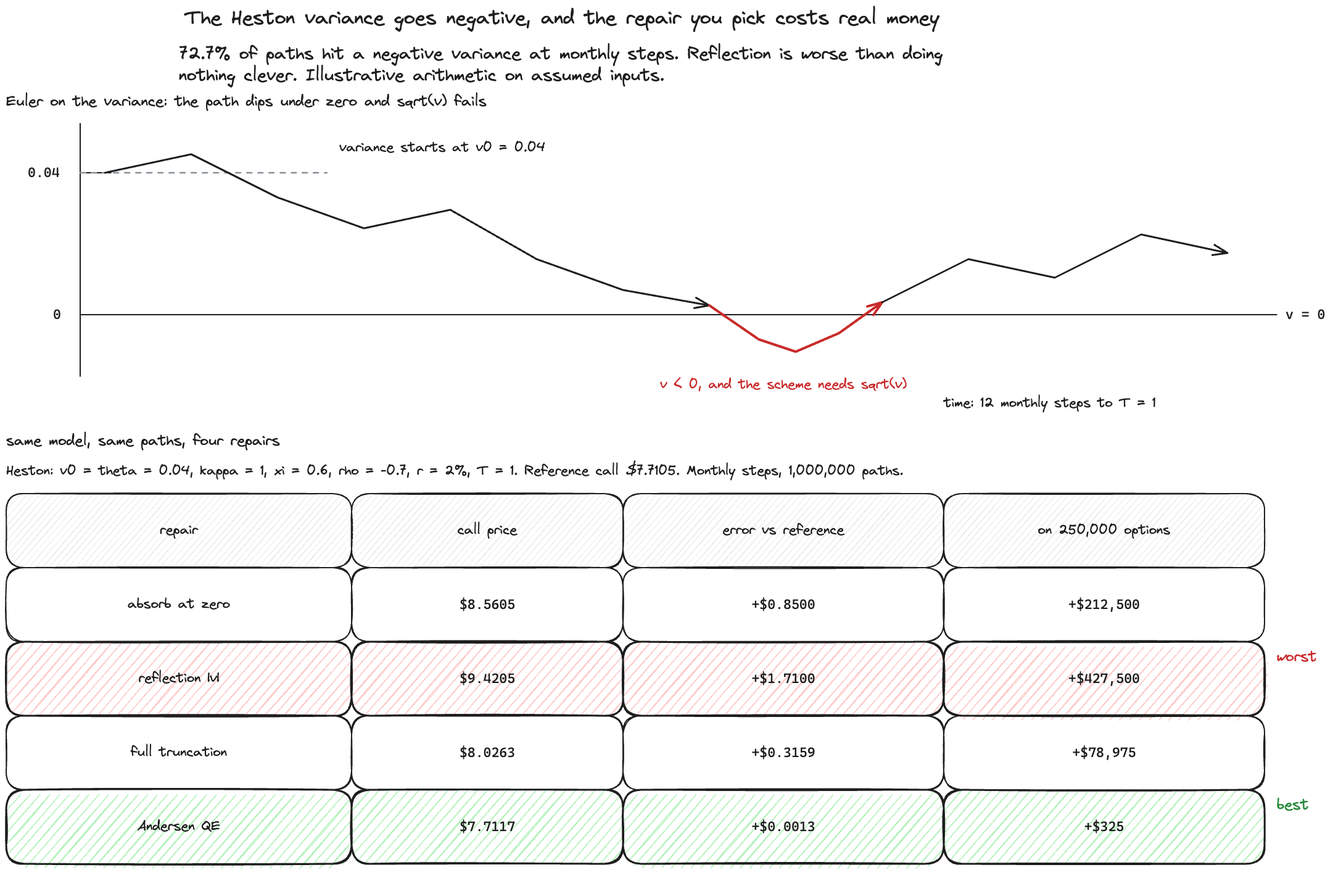
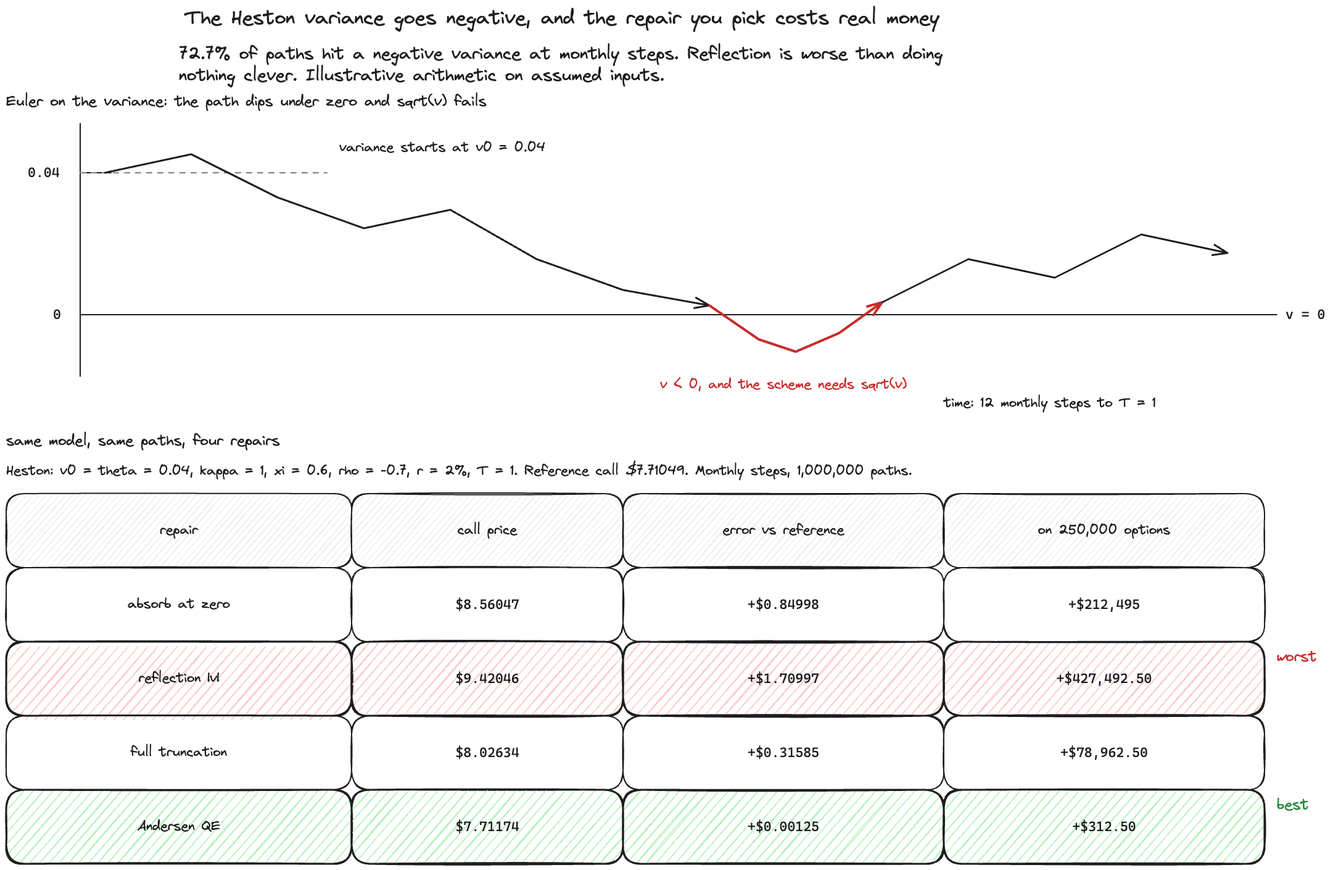
Numerical SDEs: make the Heston table reproduce, tighten prose
The Heston repair table printed prices and errors at 4 dp, at which two of
the four rows are not true identities: a reader subtracting the printed
price from the printed reference gets 8.0263 - 7.7105 = 0.3158 against a
printed 0.3159, and the Andersen QE row has the same defect. Carried both
columns to 5 dp so every row is exact, and re-rendered figure 4 to match.

Also split the 12 single-line $$...$$ blocks onto their own fence lines,
and trimmed prose from 4,188 to 4,081 words.

diff --git a/content/blog/trading/math-for-quants/numerical-sdes-euler-milstein-math-for-quants.md b/content/blog/trading/math-for-quants/numerical-sdes-euler-milstein-math-for-quants.md
@@ -22,9 +22,11 @@ readTime: 19
 
 Every quant can write down
 
-$$dS_t = \mu S_t\,dt + \sigma S_t\,dW_t$$
+$$
+dS_t = \mu S_t\,dt + \sigma S_t\,dW_t
+$$
 
-and most can derive its solution. Far fewer can say what happens when you hand that equation to a computer, which cannot take infinitesimal steps and must therefore approximate. The approximation introduces an error that is invisible in the output, does not shrink when you add paths, and has a different size depending on what question you are asking of the simulation.
+and most can derive its solution. Far fewer can say what happens when you hand it to a computer, which cannot take infinitesimal steps and must approximate. That approximation introduces an error that is invisible in the output, does not shrink when you add paths, and changes size depending on what you are asking the simulation for.
 
 That last clause is the whole post. The same scheme, run on the same model, is accurate for one question and inaccurate for another, and the vocabulary that separates the two cases is *strong* versus *weak* convergence.
 
@@ -34,15 +36,19 @@ That last clause is the whole post. The same scheme, run on the same model, is a
 
 An [SDE](/blog/trading/math-for-quants/sdes-gbm-ou-cir-math-for-quants) is shorthand for an integral equation. Writing ${dX_t = a(X_t)\,dt + b(X_t)\,dW_t}$ is a compact way of saying
 
-$$X_T = X_0 + \int_0^T a(X_t)\,dt + \int_0^T b(X_t)\,dW_t,$$
+$$
+X_T = X_0 + \int_0^T a(X_t)\,dt + \int_0^T b(X_t)\,dW_t,
+$$
 
 where the second integral is an [Ito integral](/blog/trading/math-for-quants/ito-integral-itos-lemma-math-for-quants) against Brownian motion. The function $a$ is the **drift**, the average direction of travel per unit time. The function $b$ is the **diffusion coefficient**, the size of the random kick per unit of square-root time.
 
 A computer cannot evaluate those integrals. It can only chop ${[0,T]}$ into $n$ pieces of length ${\Delta t = T/n}$ and freeze the coefficients inside each piece. Do that and you get the **Euler-Maruyama scheme**:
 
-$$X_{k+1} = X_k + a(X_k)\,\Delta t + b(X_k)\,\Delta W_k, \qquad \Delta W_k \sim N(0, \Delta t).$$
+$$
+X_{k+1} = X_k + a(X_k)\,\Delta t + b(X_k)\,\Delta W_k, \qquad \Delta W_k \sim N(0, \Delta t).
+$$
 
-It is the obvious thing: evaluate the coefficients at the left endpoint, hold them constant, and step. The one detail that is not obvious to someone arriving from ordinary differential equations is that the random increment scales like $\sqrt{\Delta t}$, not $\Delta t$. Halve the step and the drift contribution halves, while the noise contribution only falls by a factor of 1.414. That mismatch is why [Brownian motion](/blog/trading/math-for-quants/brownian-motion-random-walk-math-for-quants) has infinite variation, and it is the root of everything that follows: the noise term dominates at small steps, so the error is governed by how well you approximate the *stochastic* integral, not the ordinary one.
+It is the obvious thing: evaluate the coefficients at the left endpoint, hold them constant, and step. The detail that surprises people arriving from ordinary differential equations is that the random increment scales like $\sqrt{\Delta t}$, not $\Delta t$. Halve the step and the drift contribution halves, while the noise only falls by a factor of 1.414. That mismatch is why [Brownian motion](/blog/trading/math-for-quants/brownian-motion-random-walk-math-for-quants) has infinite variation, and it is the root of everything below: the noise dominates at small steps, so the error is governed by how well you approximate the *stochastic* integral.
 
 ### Why there are two different errors
 
@@ -50,13 +56,17 @@ Suppose you simulate a path and compare it to the truth. There are two honest wa
 
 The first compares the paths themselves. Drive the scheme and the exact solution with the **same** Brownian increments, and measure how far apart they finish:
 
-$$e_{\text{strong}}(\Delta t) = \mathbb{E}\big|X_T^{\Delta t} - X_T\big|.$$
+$$
+e_{\text{strong}}(\Delta t) = \mathbb{E}\big|X_T^{\Delta t} - X_T\big|.
+$$
 
 The scheme has **strong order** $\gamma$ if this is bounded by ${C\,\Delta t^{\gamma}}$ for small $\Delta t$.
 
 The second never compares paths at all. It compares the *answers* the two produce:
 
-$$e_{\text{weak}}(\Delta t) = \big|\mathbb{E}[f(X_T^{\Delta t})] - \mathbb{E}[f(X_T)]\big|$$
+$$
+e_{\text{weak}}(\Delta t) = \big|\mathbb{E}[f(X_T^{\Delta t})] - \mathbb{E}[f(X_T)]\big|
+$$
 
 for a payoff $f$. The scheme has **weak order** $\beta$ if this is bounded by ${C\,\Delta t^{\beta}}$.
 
@@ -68,41 +78,45 @@ The practical translation is short. **If the number you want is an expectation o
 
 The fix for Euler's weak pathwise accuracy is not a cleverer idea, it is simply the next term of the expansion. Inside one step,
 
-$$\int_{t_k}^{t_{k+1}} b(X_s)\,dW_s \approx b(X_k)\,\Delta W_k + b(X_k)b'(X_k)\int_{t_k}^{t_{k+1}}\!\!\int_{t_k}^{s} dW_u\,dW_s,$$
+$$
+\int_{t_k}^{t_{k+1}} b(X_s)\,dW_s \approx b(X_k)\,\Delta W_k + b(X_k)b'(X_k)\int_{t_k}^{t_{k+1}}\!\!\int_{t_k}^{s} dW_u\,dW_s,
+$$
 
 because ${b(X_s) \approx b(X_k) + b'(X_k)(X_s - X_k)}$ and ${X_s - X_k \approx b(X_k)(W_s - W_k)}$ to leading order. Euler keeps the first term and throws the second away. But that double integral has a closed form: applying [Ito's lemma](/blog/trading/math-for-quants/ito-integral-itos-lemma-math-for-quants) to $W_t^2$ gives ${d(W^2) = 2W\,dW + dt}$, and rearranging over one step yields
 
-$$\int_{t_k}^{t_{k+1}}\!\!\int_{t_k}^{s} dW_u\,dW_s = \tfrac{1}{2}\Big[(\Delta W_k)^2 - \Delta t\Big].$$
+$$
+\int_{t_k}^{t_{k+1}}\!\!\int_{t_k}^{s} dW_u\,dW_s = \tfrac{1}{2}\Big[(\Delta W_k)^2 - \Delta t\Big].
+$$
 
 So the missing piece is computable from the increment you already drew. The **Milstein scheme** is Euler plus that term:
 
-$$X_{k+1} = X_k + a(X_k)\,\Delta t + b(X_k)\,\Delta W_k + \tfrac{1}{2}\,b(X_k)\,b'(X_k)\Big[(\Delta W_k)^2 - \Delta t\Big].$$
+$$
+X_{k+1} = X_k + a(X_k)\,\Delta t + b(X_k)\,\Delta W_k + \tfrac{1}{2}\,b(X_k)\,b'(X_k)\Big[(\Delta W_k)^2 - \Delta t\Big].
+$$
 
-It costs one extra multiplication per step, needs no extra random numbers, and lifts the scheme to **strong order 1.0**. Note the bracket has mean zero, since ${\mathbb{E}[(\Delta W)^2] = \Delta t}$. That is exactly why Milstein does nothing for weak convergence: the term it adds is invisible to an expectation. Milstein is order 1.0 strong and order 1.0 weak, the same weak grade Euler already had.
-
-Note also that if $b$ does not depend on the state, $b' = 0$ and Milstein *is* Euler. The correction only exists when volatility is state-dependent.
+It costs one extra multiplication per step, needs no extra random numbers, and lifts the scheme to **strong order 1.0**. The bracket has mean zero, since ${\mathbb{E}[(\Delta W)^2] = \Delta t}$, which is exactly why Milstein does nothing for weak convergence: the term it adds is invisible to an expectation. Milstein is order 1.0 strong and 1.0 weak, the same weak grade Euler already had. And if $b$ does not depend on the state, $b' = 0$ and Milstein *is* Euler: the correction only exists when volatility is state-dependent.
 
 ![A table comparing convergence, with rows for 12 monthly, 52 weekly and 252 daily steps, columns for Euler strong RMS error, Milstein strong RMS error and Euler weak bias on a one hundred dollar call, and a bottom row giving observed orders of 0.50, 1.00 and 0.95 measured from weekly to daily](/imgs/blogs/numerical-sdes-euler-milstein-math-for-quants-2.webp)
 
 #### Worked example 1: what pathwise accuracy is worth on a hedging book
 
-A risk desk runs a delta-hedging simulation on a **\$50m** equity position, 500,000 shares of a \$100 stock at 30% volatility, to see how a one-year hedge programme behaves. The simulation is not pricing anything. It is asking what *this* path would have done to *this* hedge, so it is squarely a strong-convergence problem.
+A risk desk runs a delta-hedging simulation on a **\$50m** equity position, 500,000 shares of a \$100 stock at 30% volatility, over one year. It is not pricing anything. It is asking what *this* path would have done to *this* hedge, so it is squarely a strong-convergence problem.
 
-Simulate geometric Brownian motion by Euler and by Milstein, both driven by the same Brownian increments as the exact solution, and measure the root-mean-square distance between the scheme's terminal price and the true one:
+Simulate by Euler and by Milstein, both driven by the same Brownian increments as the exact solution, and measure the root-mean-square distance between the scheme's terminal price and the true one:
 
 1. **Monthly steps.** Euler lands **\$1.994** away from the true terminal price per share, Milstein **\$0.1512**. On 500,000 shares that is ${\$1.994 \times 500{,}000 = \$997{,}000}$ of pathwise dispersion against ${\$0.1512 \times 500{,}000 = \$75{,}600}$. The scheme is injecting roughly \$921,400 of pure simulation noise into a hedging study.
 2. **Daily steps.** Euler falls to **\$0.437** and Milstein to **\$0.00729**, so \$218,500 against \$3,645.
 3. **The orders.** Between weekly and daily, Euler's error falls by a factor of ${0.960/0.437 = 2.197}$ while the step falls by ${252/52 = 4.846}$. Since ${\ln(2.197)/\ln(4.846) = 0.499}$, that is order **0.50**. Milstein falls by ${0.0353/0.00729 = 4.842}$ over the same refinement, an order of **1.00**.
 
-The lesson: Euler needs four times the steps to halve its pathwise error, and Milstein needs only two. On a state-dependent-volatility model where you care about paths, that ratio compounds into an hour of compute versus a day of it.
+The lesson: Euler needs four times the steps to halve its pathwise error, Milstein only two. Where you care about paths, that ratio is an hour of compute against a day of it.
 
 ## Discretisation bias is not Monte Carlo error
 
-This is the distinction people get wrong, and it is worth being pedantic about. A Monte Carlo price carries **two** errors that behave completely differently.
+This is the distinction people get wrong. A Monte Carlo price carries **two** errors that behave completely differently.
 
-**Monte Carlo error** is sampling noise. You drew ${M}$ paths instead of infinitely many, so your estimate wobbles around the true value of the expectation with standard deviation ${\sigma_f/\sqrt{M}}$. It is random, it is unbiased, it shrinks as you add paths, and you can put a confidence interval on it.
+**Monte Carlo error** is sampling noise. You drew ${M}$ paths instead of infinitely many, so your estimate wobbles around the expectation with standard deviation ${\sigma_f/\sqrt{M}}$. It is random, unbiased, shrinks as you add paths, and carries a confidence interval.
 
-**Discretisation bias** is the gap between the true value of the expectation *you are actually computing* and the one you want. You are not sampling the model. You are sampling a slightly different model, the one your scheme defines. It is deterministic, it is signed, and **it does not move when you add paths**. Adding paths makes you more and more confident about the wrong number.
+**Discretisation bias** is the gap between the expectation *you are actually computing* and the one you want. You are not sampling the model; you are sampling a slightly different model, the one your scheme defines. It is deterministic, it is signed, and **it does not move when you add paths**. More paths make you more confident about the wrong number.
 
 ![A log-log chart with paths simulated on the x-axis and error per option on the y-axis. A descending line labelled Monte Carlo standard error crosses three horizontal bias lines for monthly, weekly and daily steps, with crossing points marked at 1.8 million, 28 million and 570 million paths](/imgs/blogs/numerical-sdes-euler-milstein-math-for-quants-3.webp)
 
@@ -117,9 +131,9 @@ Simulate with Euler and compare against the exact solution driven by the same Br
 3. **Daily steps (252).** It falls again to **\$0.00093**, so \$232.50.
 4. **The observed order.** From weekly to daily, ${0.00418/0.00093 = 4.495}$ against a step ratio of 4.846, so ${\ln(4.495)/\ln(4.846) = 0.95}$. Theory says weak order 1.0; the shortfall is Monte Carlo noise on a bias this small.
 
-Now the part that matters. The payoff's standard deviation here is **\$22.199**, so the Monte Carlo standard error on ${M}$ paths is \$22.199 divided by $\sqrt{M}$. Setting that equal to the monthly bias gives ${M = (22.199/0.01675)^2 = 1{,}756{,}000}$ paths. **Past about 1.8 million paths, a monthly-stepped Euler simulation stops getting better.** For the weekly bias the crossover is 28 million paths, and for daily it is 570 million.
+Now the part that matters. The payoff's standard deviation here is **\$22.199**, so the Monte Carlo standard error on ${M}$ paths is \$22.199 divided by $\sqrt{M}$. Setting that equal to the monthly bias gives ${M = (22.199/0.01675)^2 = 1{,}756{,}000}$ paths. **Past about 1.8 million paths, a monthly-stepped Euler simulation stops getting better.** The weekly crossover is 28 million paths, the daily one 570 million.
 
-A desk that responds to a noisy price by throwing ten times the paths at it, without touching the step size, is buying a tighter confidence interval around a number that is still \$4,187.50 wrong.
+A desk that answers a noisy price by throwing ten times the paths at it, without touching the step, buys a tighter confidence interval around a number still \$4,187.50 wrong.
 
 #### Worked example 3: one compute budget, three ways to spend it
 
@@ -131,7 +145,7 @@ Because the two errors trade off, the step count and the path count have to be c
 | 52 | 38m | \$0.00418 | \$0.00358 | \$0.00550 | \$1,375 |
 | 252 | 7.9m | \$0.00093 | \$0.00788 | \$0.00793 | \$1,982.50 |
 
-The monthly run is **all bias**: its confidence interval is ten times tighter than its error. The daily run is **all noise**: it nails the model and then cannot tell you where the answer is. The weekly split, where the two errors are roughly equal, is three times better than the monthly one for exactly the same compute. That equality is the general rule, and Duffie and Glynn (1995) make it precise: at the optimum the squared bias and the variance are of the same order, which for a weak-order-1 scheme puts the step count at roughly the cube root of the budget.
+The monthly run is **all bias**: its confidence interval is ten times tighter than its error. The daily run is **all noise**: it nails the model, then cannot tell you where the answer is. The weekly split, where the two errors are roughly equal, is three times better than monthly for the same compute. That equality is the rule, and Duffie and Glynn (1995) make it precise: at the optimum the squared bias and the variance are the same order, which for a weak-order-1 scheme puts the step count near the cube root of the budget.
 
 ## Never Euler a geometric Brownian motion
 
@@ -139,15 +153,19 @@ All of the above assumes you have to discretise. Sometimes you do not.
 
 Geometric Brownian motion has an exact solution. Applying Ito's lemma to $\ln S$ gives ${d\ln S = (\mu - \sigma^2/2)dt + \sigma\,dW}$, whose right-hand side has no state dependence at all, so it integrates exactly over any interval:
 
-$$S_{k+1} = S_k \exp\!\Big[\big(\mu - \tfrac{1}{2}\sigma^2\big)\Delta t + \sigma\,\Delta W_k\Big].$$
+$$
+S_{k+1} = S_k \exp\!\Big[\big(\mu - \tfrac{1}{2}\sigma^2\big)\Delta t + \sigma\,\Delta W_k\Big].
+$$
 
 This is not a scheme. It is the solution, sampled on a grid. It has **zero discretisation error at any step size**, strong and weak. If all you need is the terminal price, take one step of size ${T}$ and stop.
 
-So the entire table above, every dollar of bias in worked example 2, was self-inflicted. It exists only because someone reached for Euler on a model that did not need it. The same is true of the [Ornstein-Uhlenbeck process](/blog/trading/math-for-quants/sdes-gbm-ou-cir-math-for-quants), which is Gaussian and can be stepped exactly, and of the CIR process, whose transition law is a scaled non-central chi-square.
+So every dollar of bias in worked example 2 was self-inflicted, and exists only because someone reached for Euler on a model that did not need it. The same holds for the [Ornstein-Uhlenbeck process](/blog/trading/math-for-quants/sdes-gbm-ou-cir-math-for-quants), which is Gaussian and steps exactly, and for CIR, whose transition law is a scaled non-central chi-square.
 
-There is a second reason to care, beyond accuracy. Euler on GBM is not even **martingale-consistent**. Since ${\mathbb{E}[\Delta W] = 0}$, the Euler scheme's expected terminal price telescopes to a closed form:
+There is a second reason to care. Euler on GBM is not even **martingale-consistent**. Since ${\mathbb{E}[\Delta W] = 0}$, its expected terminal price telescopes to a closed form:
 
-$$\mathbb{E}\big[S_T^{\text{Euler}}\big] = S_0\,(1 + \mu\,\Delta t)^n \quad\text{against the exact}\quad S_0\,e^{\mu T}.$$
+$$
+\mathbb{E}\big[S_T^{\text{Euler}}\big] = S_0\,(1 + \mu\,\Delta t)^n \quad\text{against the exact}\quad S_0\,e^{\mu T}.
+$$
 
 With ${\mu = 4\%}$, ${T = 1}$ and 12 monthly steps, that is ${\$100 \times (1 + 1/300)^{12} = \$104.074154}$ against ${\$100 \times e^{0.04} = \$104.081077}$. The scheme misses the forward by **\$0.006923** a share before any option is priced, and no number of paths recovers it. Under the [risk-neutral measure](/blog/trading/math-for-quants/martingales-risk-neutral-measure-math-for-quants) the discounted stock is supposed to be a martingale, and this one is not. Notice too that the defect points *down* while the call bias points *up*, so the call is not overpriced because the forward drifted. It is overpriced because the Euler scheme's terminal distribution is the wrong shape, not because it sits in the wrong place.
 
@@ -155,32 +173,34 @@ With ${\mu = 4\%}$, ${T = 1}$ and 12 monthly steps, that is ${\$100 \times (1 + 
 
 Now the case where you genuinely cannot avoid discretising. The [Heston model](/blog/trading/math-for-quants/jump-diffusion-stochastic-volatility-math-for-quants) is
 
-$$dS_t = r S_t\,dt + \sqrt{v_t}\,S_t\,dW_t^S, \qquad dv_t = \kappa(\theta - v_t)\,dt + \xi\sqrt{v_t}\,dW_t^v,$$
+$$
+dS_t = r S_t\,dt + \sqrt{v_t}\,S_t\,dW_t^S, \qquad dv_t = \kappa(\theta - v_t)\,dt + \xi\sqrt{v_t}\,dW_t^v,
+$$
 
 with the two Brownian motions correlated at $\rho$. The variance process is mean-reverting and, in continuous time, stays strictly positive whenever the **Feller condition** ${2\kappa\theta \ge \xi^2}$ holds.
 
 Discretise it with Euler and that guarantee dies instantly:
 
-$$v_{k+1} = v_k + \kappa(\theta - v_k)\Delta t + \xi\sqrt{v_k}\,\Delta W_k.$$
+$$
+v_{k+1} = v_k + \kappa(\theta - v_k)\Delta t + \xi\sqrt{v_k}\,\Delta W_k.
+$$
 
-The increment $\Delta W_k$ is Gaussian and therefore unbounded below. Whatever $v_k$ is, there is a draw that pushes $v_{k+1}$ below zero, and the next step needs $\sqrt{v_{k+1}}$. The scheme does not degrade gracefully. It throws.
+The increment $\Delta W_k$ is Gaussian and therefore unbounded below. Whatever $v_k$ is, some draw pushes $v_{k+1}$ below zero, and the next step needs $\sqrt{v_{k+1}}$. The scheme does not degrade gracefully. It throws. Nor is this a corner case: calibrated equity smiles routinely violate Feller, because fitting a steep short-dated skew wants a large vol-of-vol $\xi$.
 
-This is not a corner case. Calibrated equity smiles routinely violate Feller, because fitting a steep short-dated skew wants a large vol-of-vol $\xi$.
-
-![Top, a variance path starting at 0.04 that wanders down and dips below the zero line, with the dipping segment marked v below zero and the scheme needs the square root of v. Below, a table of four repairs with call prices of 8.5605 for absorption, 9.4205 for reflection, 8.0263 for full truncation and 7.7117 for Andersen QE, against a reference of 7.7105](/imgs/blogs/numerical-sdes-euler-milstein-math-for-quants-4.webp)
+![Top, a variance path starting at 0.04 that wanders down and dips below the zero line, with the dipping segment marked v below zero and the scheme needs the square root of v. Below, a table of four repairs with call prices of 8.56047 for absorption, 9.42046 for reflection, 8.02634 for full truncation and 7.71174 for Andersen QE, against a reference of 7.71049](/imgs/blogs/numerical-sdes-euler-milstein-math-for-quants-4.webp)
 
 #### Worked example 4: which repair, and what it costs
 
 Take ${v_0 = \theta = 0.04}$ (20% long-run volatility), ${\kappa = 1}$, ${\xi = 0.6}$, ${\rho = -0.7}$, ${r = 2\%}$, one year, a \$100 at-the-money call. Feller is violated badly: ${2\kappa\theta = 0.08}$ against ${\xi^2 = 0.36}$, a ratio of 0.22.
 
-The reference price is **\$7.7105**, computed from the Heston characteristic function. I priced it twice, by the Gil-Pelaez two-probability integral and by the Carr-Madan damped-call transform, which are different derivations rather than the same algebra rewritten; they agree to eleven decimals, and both reproduce Black-Scholes to ten decimals when fed a Black-Scholes characteristic function.
+The reference price is **\$7.71049**, computed from the Heston characteristic function. I priced it twice, by the Gil-Pelaez two-probability integral and by the Carr-Madan damped-call transform, which are different derivations rather than the same algebra rewritten. They agree to ten decimal places, and both reproduce Black-Scholes to ten decimal places when fed a Black-Scholes characteristic function.
 
-At monthly steps, **72.7%** of paths hit a negative variance at least once, and 12.8% of all individual steps do. Here is what each repair produces on a **250,000-option** book:
+At monthly steps, **72.7%** of paths hit a negative variance at least once, and 12.8% of all individual steps do. Here is what each repair produces on a **250,000-option** book, with a Monte Carlo standard error of about \$0.00885 a share, \$2,212.50 on the book:
 
-1. **Absorption**, ${v \leftarrow \max(v, 0)}$. Price **\$8.5605**, an error of **+\$0.8500** a share, or ${\$0.8500 \times 250{,}000 = \$212{,}500}$.
-2. **Reflection**, ${v \leftarrow |v|}$. Price **\$9.4205**, an error of **+\$1.7100**, or **\$427,500**. Reflection is *worse than absorption*: bouncing the variance back up injects volatility exactly where the model wanted none, and it is the intuitive fix that a candidate reaches for first.
-3. **Full truncation** (Lord, Koekkoek and van Dijk, 2010). Keep $v$ as a signed number in the drift and use ${\max(v,0)}$ wherever the scheme actually evaluates it. Price **\$8.0263**, an error of **+\$0.3159**, or **\$78,975**. Against absorption it removes ${\$212{,}500 - \$78{,}975 = \$133{,}525}$ of error for one line of code.
-4. **Andersen's Quadratic-Exponential scheme** (2008). Instead of patching a Gaussian step, moment-match the true non-central chi-square transition law: a squared-Gaussian draw when the variance is comfortably positive, an exponential-with-an-atom-at-zero draw when it is near zero. Price **\$7.7117**, an error of **+\$0.0013**, or **\$325**, which is inside the simulation's own \$2,600 noise band. It never produces a negative variance, by construction.
+1. **Absorption**, ${v \leftarrow \max(v, 0)}$. Price **\$8.56047**, an error of **+\$0.84998** a share, which on 250,000 options is **\$212,495**.
+2. **Reflection**, ${v \leftarrow |v|}$. Price **\$9.42046**, an error of **+\$1.70997**, or **\$427,492.50**. Reflection is *worse than absorption*: bouncing the variance back up injects volatility exactly where the model wanted none, and it is the intuitive fix that a candidate reaches for first.
+3. **Full truncation** (Lord, Koekkoek and van Dijk, 2010). Keep $v$ as a signed number in the drift and use ${\max(v,0)}$ wherever the scheme actually evaluates it. Price **\$8.02634**, an error of **+\$0.31585**, or **\$78,962.50**. Against absorption it removes \$133,532.50 of error for one line of code.
+4. **Andersen's Quadratic-Exponential scheme** (2008). Instead of patching a Gaussian step, moment-match the true non-central chi-square transition law: a squared-Gaussian draw when the variance is comfortably positive, an exponential-with-an-atom-at-zero draw when it is near zero. Price **\$7.71174**, an error of **+\$0.00125**, or **\$312.50**, which is well inside that \$2,212.50 noise band. It never produces a negative variance, by construction.
 
 **What is standard:** QE is the production choice on derivatives desks and the benchmark in the literature. Full truncation is the standard cheap fallback and is comfortably the best of the plain Euler family, which is exactly what Lord and co-authors found. Absorption and reflection are what you get when nobody made a decision.
 
@@ -194,7 +214,7 @@ A knock-out dies if the price *ever* touches the barrier. A simulated path is a 
 
 ![A jagged price path with eight observation dots above a dashed ninety dollar barrier line. Between two dots observed at 92.10 and 91.40 the true continuous path dips to a low of 88.70 below the barrier and returns, with that excursion marked as the touch nobody recorded](/imgs/blogs/numerical-sdes-euler-milstein-math-for-quants-5.webp)
 
-The bias is systematic and one-directional: discrete monitoring can only *miss* touches, never invent them, so a naively simulated knock-out is always too valuable. And the error shrinks like ${\sqrt{\Delta t}}$ rather than $\Delta t$, because the thing you are missing is the expected overshoot of a Brownian path between looks, which is a square-root quantity. That is strong convergence appearing as a booking error.
+The bias is one-directional: discrete monitoring can only *miss* touches, never invent them, so a naively simulated knock-out is always too valuable. And the error shrinks like ${\sqrt{\Delta t}}$ rather than $\Delta t$, because what you are missing is the expected overshoot of a Brownian path between looks, a square-root quantity. That is strong convergence appearing as a booking error.
 
 Two fixes exist, and neither is "use more steps". Simulate the **Brownian bridge** between each pair of points and sample whether the bridge crossed, which restores the continuous price at any step size. Or apply the **continuity correction** of Broadie, Glasserman and Kou (1997), which shifts the barrier by ${\exp(\pm 0.5826\,\sigma\sqrt{\Delta t})}$ and reuses the continuous formula. The [local time and reflection post](/blog/trading/math-for-quants/local-time-barriers-reflection-math-for-quants) derives that correction and prices it out in dollars.
 
@@ -202,9 +222,9 @@ Two fixes exist, and neither is "use more steps". Simulate the **Brownian bridge
 
 **"Halving the step halves the error."** Only for a weak-order-1 scheme measuring a weak quantity. Halving the step on Euler's *pathwise* error multiplies it by ${1/\sqrt{2} = 0.707}$, so you need four times the steps to halve it. The question "which error" has to be answered before the sentence means anything.
 
-**"More paths will fix it."** More paths fix sampling noise and nothing else. Discretisation bias is a property of the scheme, not the sample, and it sits at exactly the same value whether you run a thousand paths or a billion. When a simulated price is stubbornly off after a path count increase, the step size is the suspect.
+**"More paths will fix it."** More paths fix sampling noise and nothing else. Discretisation bias is a property of the scheme, not the sample, and sits at the same value whether you run a thousand paths or a billion. When a price stays off after a path-count increase, the step size is the suspect.
 
-**"Milstein is always worth it."** It is worth it when you need pathwise accuracy and volatility is state-dependent. For a vanilla European price you need only weak convergence, where Milstein and Euler are both order 1.0, so it buys you nothing but arithmetic. And in multiple dimensions the correction needs Levy areas, iterated integrals with no closed form, which is why multi-asset Milstein is rare in production.
+**"Milstein is always worth it."** Only when you need pathwise accuracy and volatility is state-dependent. For a vanilla European price you need only weak convergence, where Milstein and Euler are both order 1.0, so it buys nothing but arithmetic. And in multiple dimensions the correction needs Levy areas, iterated integrals with no closed form, which is why multi-asset Milstein is rare in production.
 
 **"The Feller condition protects me."** It protects the continuous process. Every Euler discretisation can go negative regardless, because a Gaussian increment has no lower bound. Feller changes how often, not whether.
 
